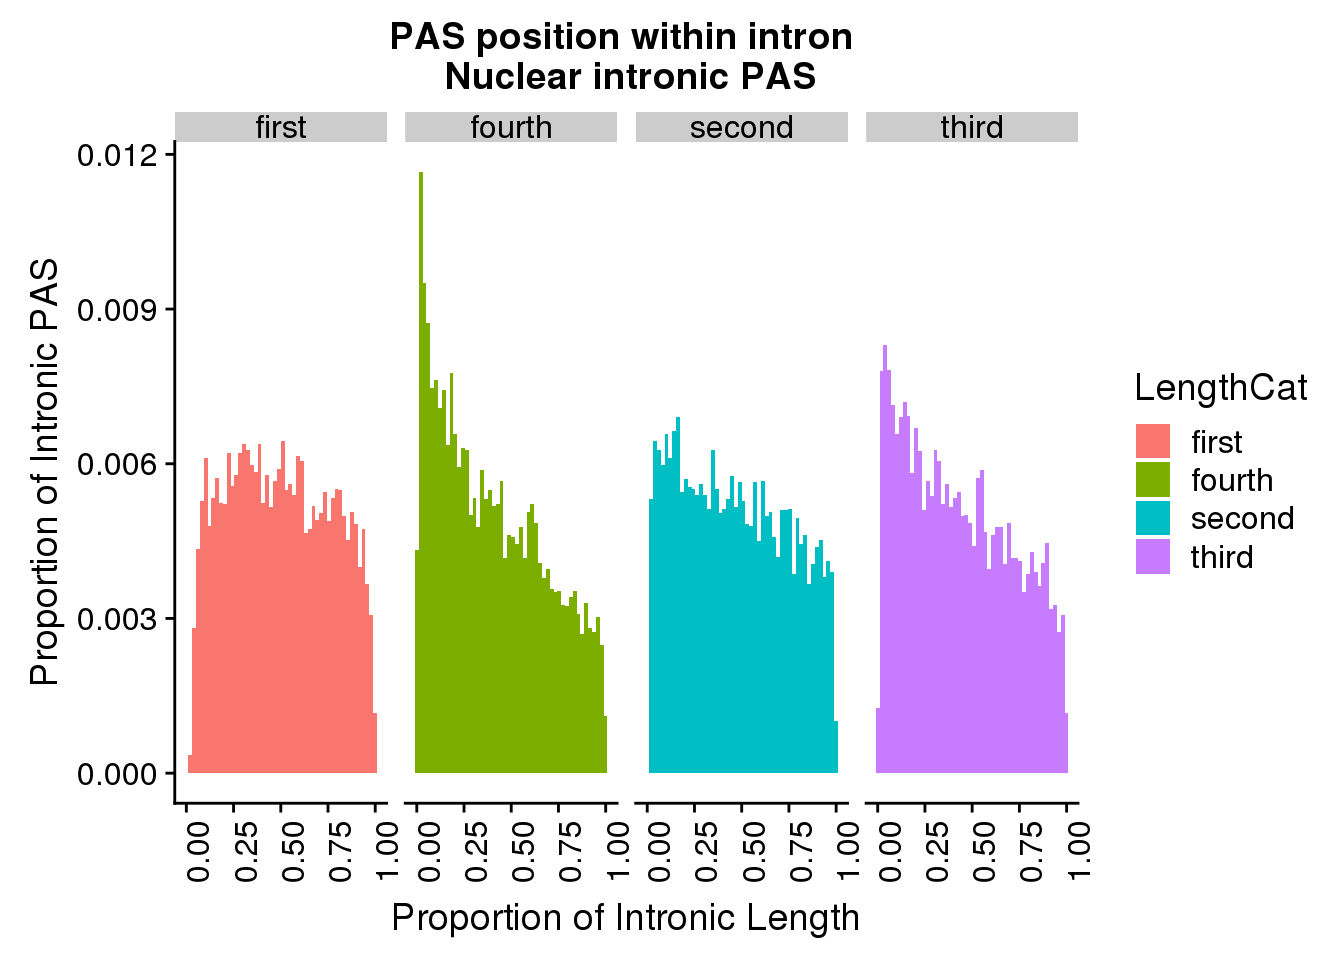
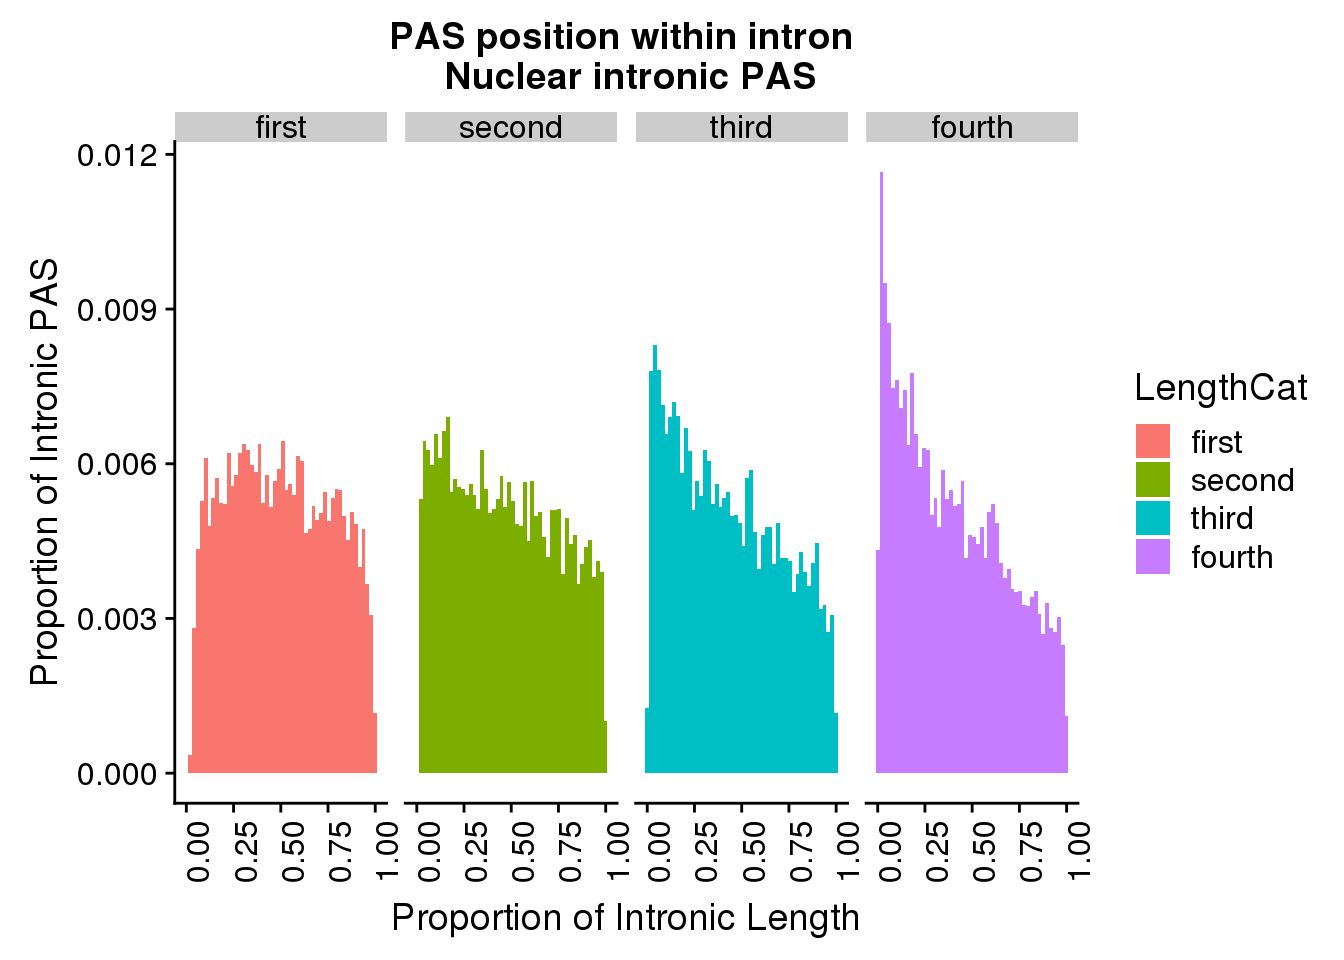
Build site.

diff --git a/docs/nucintronicanalysis.html b/docs/nucintronicanalysis.html
@@ -422,10 +422,10 @@ This reproducible <a href="http://rmarkdown.rstudio.com">R Markdown</a> analysis
 <div class="panel panel-default">
 <div class="panel-heading">
 <p class="panel-title">
-<a data-toggle="collapse" data-parent="#workflowr-checks" href="#strongRepositoryversionstrongahrefhttpsgithubcombrimittlemanapaQTLtreea259a17e4ca3bfe70a6fcf372a01bd63ad4ca1bdtargetblanka259a17a"> <span class="glyphicon glyphicon-ok text-success" aria-hidden="true"></span> <strong>Repository version:</strong> <a href="https://github.com/brimittleman/apaQTL/tree/a259a17e4ca3bfe70a6fcf372a01bd63ad4ca1bd" target="_blank">a259a17</a> </a>
+<a data-toggle="collapse" data-parent="#workflowr-checks" href="#strongRepositoryversionstrongahrefhttpsgithubcombrimittlemanapaQTLtree48cbbd4a248fe28c643b7ed27b6962161ce0170etargetblank48cbbd4a"> <span class="glyphicon glyphicon-ok text-success" aria-hidden="true"></span> <strong>Repository version:</strong> <a href="https://github.com/brimittleman/apaQTL/tree/48cbbd4a248fe28c643b7ed27b6962161ce0170e" target="_blank">48cbbd4</a> </a>
 </p>
 </div>
[2 lines of base64/hex data omitted]
 <div class="panel-body">
 <p>
 Great! You are using Git for version control. Tracking code development and connecting the code version to the results is critical for reproducibility. The version displayed above was the version of the Git repository at the time these results were generated. <br><br> Note that you need to be careful to ensure that all relevant files for the analysis have been committed to Git prior to generating the results (you can use <code>wflow_publish</code> or <code>wflow_git_commit</code>). workflowr only checks the R Markdown file, but you know if there are other scripts or data files that it depends on. Below is the status of the Git repository when the results were generated:
@@ -452,6 +452,7 @@ Untracked files:
     Untracked:  code/._LC_samplegroups.py
     Untracked:  code/._SnakefilePAS
     Untracked:  code/._SnakefilefiltPAS
+    Untracked:  code/._TESplots100bp.sh
     Untracked:  code/._aAPAqtl_nominal39ind.sh
     Untracked:  code/._apaQTLCorrectPvalMakeQQ.R
     Untracked:  code/._apaQTL_Nominal.sh
@@ -541,6 +542,9 @@ Untracked files:
     Untracked:  code/LC_samplegroups.py
     Untracked:  code/README.md
     Untracked:  code/Rplots.pdf
+    Untracked:  code/TESplots100bp.err
+    Untracked:  code/TESplots100bp.out
+    Untracked:  code/TESplots100bp.sh
     Untracked:  code/Upstream100Bases_general.py
     Untracked:  code/aAPAqtl_nominal39ind.sh
     Untracked:  code/apaQTLCorrectPvalMakeQQ_4pc.R
@@ -613,6 +617,7 @@ Untracked files:
     Untracked:  data/DTmatrix/
     Untracked:  data/DiffIso/
     Untracked:  data/EncodeRNA/
+    Untracked:  data/GeuvadisRNA/
     Untracked:  data/PAS/
     Untracked:  data/QTLGenotypes/
     Untracked:  data/QTLoverlap/
@@ -724,6 +729,23 @@ Message
 </tr>
 </thead>
 <tbody>
+<tr>
+<td>
+html
+</td>
+<td>
+<a href="https://rawcdn.githack.com/brimittleman/apaQTL/57d8a8c3302213fce92c63c5cb645ab7ede038d2/docs/nucintronicanalysis.html" target="_blank">57d8a8c</a>
+</td>
+<td>
+brimittleman
+</td>
+<td>
+2019-05-22
+</td>
+<td>
+Build site.
+</td>
+</tr>
 <tr>
 <td>
 Rmd
@@ -870,12 +892,12 @@ start ideas for inton analysis
 <p>I am interested in understanding where in the introns the nuclear peaks are. Are they closer to the three prime or five prime edge of the intron. This may help us understand if NMD is contributing to the loss of transcripts between the nuclear and total fraction.</p>
 <p>I need to create an annotation with introns that do not overlap. For this I will use line up all of the exons for a gene then take the open spaces as introns.</p>
 <pre class="r"><code>library(tidyverse)</code></pre>
-<pre><code>── Attaching packages ──────────────────────────────────────────────────────────────────── tidyverse 1.2.1 ──</code></pre>
+<pre><code>── Attaching packages ───────────────────────────────────────────────────────────── tidyverse 1.2.1 ──</code></pre>
 <pre><code>✔ ggplot2 3.1.1       ✔ purrr   0.3.2  
 ✔ tibble  2.1.1       ✔ dplyr   0.8.0.1
 ✔ tidyr   0.8.3       ✔ stringr 1.3.1  
 ✔ readr   1.3.1       ✔ forcats 0.3.0  </code></pre>
-<pre><code>── Conflicts ─────────────────────────────────────────────────────────────────────── tidyverse_conflicts() ──
+<pre><code>── Conflicts ──────────────────────────────────────────────────────────────── tidyverse_conflicts() ──
 ✖ dplyr::filter() masks stats::filter()
 ✖ dplyr::lag()    masks stats::lag()</code></pre>
 <pre class="r"><code>library(workflowr)</code></pre>
@@ -946,6 +968,17 @@ Date
 <tbody>
 <tr>
 <td>
+<a href="https://github.com/brimittleman/apaQTL/blob/57d8a8c3302213fce92c63c5cb645ab7ede038d2/docs/figure/nucintronicanalysis.Rmd/unnamed-chunk-12-1.png" target="_blank">57d8a8c</a>
+</td>
+<td>
+brimittleman
+</td>
+<td>
+2019-05-22
+</td>
+</tr>
+<tr>
+<td>
 <a href="https://github.com/brimittleman/apaQTL/blob/d859f02f7079e5fdac54304f492e7e658bf3f0b6/docs/figure/nucintronicanalysis.Rmd/unnamed-chunk-12-1.png" target="_blank">d859f02</a>
 </td>
 <td>
@@ -987,6 +1020,17 @@ Date
 <tbody>
 <tr>
 <td>
+<a href="https://github.com/brimittleman/apaQTL/blob/57d8a8c3302213fce92c63c5cb645ab7ede038d2/docs/figure/nucintronicanalysis.Rmd/unnamed-chunk-13-1.png" target="_blank">57d8a8c</a>
+</td>
+<td>
+brimittleman
+</td>
+<td>
+2019-05-22
+</td>
+</tr>
+<tr>
+<td>
 <a href="https://github.com/brimittleman/apaQTL/blob/d859f02f7079e5fdac54304f492e7e658bf3f0b6/docs/figure/nucintronicanalysis.Rmd/unnamed-chunk-13-1.png" target="_blank">d859f02</a>
 </td>
 <td>
@@ -1008,17 +1052,168 @@ pas2intron_length=pas2intron %&gt;% mutate(LengthCat=ifelse(intronLength&lt;=mea
 
 ggplot(pas2intron_length, aes(x=propIntron, fill=LengthCat)) + geom_histogram(bins=50, aes(y=..count../33345)) + labs(title=&quot;PAS position within intron&quot;, y=&quot;Proportion of Intronic PAS&quot;, x=&quot;Proportion of Intronic Length&quot;) + facet_grid(~LengthCat)</code></pre>
 <p><img src="figure/nucintronicanalysis.Rmd/unnamed-chunk-14-1.png" width="672" style="display: block; margin: auto;" /></p>
+<p>
+<button type="button" class="btn btn-default btn-xs btn-workflowr btn-workflowr-fig" data-toggle="collapse" data-target="#fig-unnamed-chunk-14-1">
+Past versions of unnamed-chunk-14-1.png
+</button>
+</p>
+<div id="fig-unnamed-chunk-14-1" class="collapse">
+<div class="table-responsive">
+<table class="table table-condensed table-hover">
+<thead>
+<tr>
+<th>
+Version
+</th>
+<th>
+Author
+</th>
+<th>
+Date
+</th>
+</tr>
+</thead>
+<tbody>
+<tr>
+<td>
+<a href="https://github.com/brimittleman/apaQTL/blob/57d8a8c3302213fce92c63c5cb645ab7ede038d2/docs/figure/nucintronicanalysis.Rmd/unnamed-chunk-14-1.png" target="_blank">57d8a8c</a>
+</td>
+<td>
+brimittleman
+</td>
+<td>
+2019-05-22
+</td>
+</tr>
+</tbody>
+</table>
+</div>
+</div>
 <pre class="r"><code>ggplot(pas2intron_length, aes(x=distance2PAS, fill=LengthCat)) + geom_histogram(bins=50, aes(y=..count../33345)) + labs(title=&quot;PAS position within intron&quot;, y=&quot;Proportion of Intronic PAS&quot;, x=&quot;Proportion of Intronic Length&quot;) + facet_grid(~LengthCat)</code></pre>
-<p><img src="figure/nucintronicanalysis.Rmd/unnamed-chunk-14-2.png" width="672" style="display: block; margin: auto;" /> Look at quartiles:</p>
+<p><img src="figure/nucintronicanalysis.Rmd/unnamed-chunk-14-2.png" width="672" style="display: block; margin: auto;" /></p>
+<p>
+<button type="button" class="btn btn-default btn-xs btn-workflowr btn-workflowr-fig" data-toggle="collapse" data-target="#fig-unnamed-chunk-14-2">
+Past versions of unnamed-chunk-14-2.png
+</button>
+</p>
+<div id="fig-unnamed-chunk-14-2" class="collapse">
+<div class="table-responsive">
+<table class="table table-condensed table-hover">
+<thead>
+<tr>
+<th>
+Version
+</th>
+<th>
+Author
+</th>
+<th>
+Date
+</th>
+</tr>
+</thead>
+<tbody>
+<tr>
+<td>
+<a href="https://github.com/brimittleman/apaQTL/blob/57d8a8c3302213fce92c63c5cb645ab7ede038d2/docs/figure/nucintronicanalysis.Rmd/unnamed-chunk-14-2.png" target="_blank">57d8a8c</a>
+</td>
+<td>
+brimittleman
+</td>
+<td>
+2019-05-22
+</td>
+</tr>
+</tbody>
+</table>
+</div>
+</div>
+<p>Look at quartiles:</p>
 <pre class="r"><code>summary(pas2intron_usage$intronLength)</code></pre>
 <pre><code>   Min. 1st Qu.  Median    Mean 3rd Qu.    Max. 
     106    3929    9220   22248   24094 1102540 </code></pre>
 <pre class="r"><code>pas2intron_length2=pas2intron %&gt;% mutate(LengthCat=ifelse(intronLength&lt;=3929, &quot;first&quot;, ifelse(intronLength&gt;3929 &amp;intronLength&lt;=9220, &quot;second&quot;, ifelse(intronLength&gt;9220 &amp;intronLength&lt;=24094, &quot;third&quot;, &quot;fourth&quot;))))
+
+pas2intron_length2$LengthCat &lt;- factor(pas2intron_length2$LengthCat, levels=c(&quot;first&quot;, &quot;second&quot;, &quot;third&quot;, &quot;fourth&quot;))
                                          
 ggplot(pas2intron_length2, aes(x=propIntron, fill=LengthCat)) + geom_histogram(bins=50, aes(y=..count../33345)) + labs(title=&quot;PAS position within intron \n Nuclear intronic PAS&quot;, y=&quot;Proportion of Intronic PAS&quot;, x=&quot;Proportion of Intronic Length&quot;) + facet_grid(~LengthCat)+theme(axis.text.x = element_text(angle = 90, hjust = 1))</code></pre>
 <p><img src="figure/nucintronicanalysis.Rmd/unnamed-chunk-15-1.png" width="672" style="display: block; margin: auto;" /></p>
+<p>
+<button type="button" class="btn btn-default btn-xs btn-workflowr btn-workflowr-fig" data-toggle="collapse" data-target="#fig-unnamed-chunk-15-1">
+Past versions of unnamed-chunk-15-1.png
+</button>
+</p>
+<div id="fig-unnamed-chunk-15-1" class="collapse">
+<div class="table-responsive">
+<table class="table table-condensed table-hover">
+<thead>
+<tr>
+<th>
+Version
+</th>
+<th>
+Author
+</th>
+<th>
+Date
+</th>
+</tr>
+</thead>
+<tbody>
+<tr>
+<td>
+<a href="https://github.com/brimittleman/apaQTL/blob/57d8a8c3302213fce92c63c5cb645ab7ede038d2/docs/figure/nucintronicanalysis.Rmd/unnamed-chunk-15-1.png" target="_blank">57d8a8c</a>
+</td>
+<td>
+brimittleman
+</td>
+<td>
+2019-05-22
+</td>
+</tr>
+</tbody>
+</table>
+</div>
+</div>
 <pre class="r"><code>ggplot(pas2intron_length2, aes(x=log(distance2PAS)), by=LengthCat, col=LengthCat) + stat_ecdf(aes(col=LengthCat)) </code></pre>
 <p><img src="figure/nucintronicanalysis.Rmd/unnamed-chunk-15-2.png" width="672" style="display: block; margin: auto;" /></p>
+<p>
+<button type="button" class="btn btn-default btn-xs btn-workflowr btn-workflowr-fig" data-toggle="collapse" data-target="#fig-unnamed-chunk-15-2">
+Past versions of unnamed-chunk-15-2.png
+</button>
+</p>
+<div id="fig-unnamed-chunk-15-2" class="collapse">
+<div class="table-responsive">
+<table class="table table-condensed table-hover">
+<thead>
+<tr>
+<th>
+Version
+</th>
+<th>
+Author
+</th>
+<th>
+Date
+</th>
+</tr>
+</thead>
+<tbody>
+<tr>
+<td>
+<a href="https://github.com/brimittleman/apaQTL/blob/57d8a8c3302213fce92c63c5cb645ab7ede038d2/docs/figure/nucintronicanalysis.Rmd/unnamed-chunk-15-2.png" target="_blank">57d8a8c</a>
+</td>
+<td>
+brimittleman
+</td>
+<td>
+2019-05-22
+</td>
+</tr>
+</tbody>
+</table>
+</div>
+</div>
 <p>Look at distribution in total fraction:</p>
 <pre class="r"><code>totIntronicPeaks=read.table(&quot;../data/peaks_5perc/APApeak_Peaks_GeneLocAnno.Total.5perc.fc&quot;, stringsAsFactors = F, header = F,col.names = c(&quot;chr&quot;, &quot;start&quot;, &quot;end&quot;, &quot;gene&quot;, &quot;loc&quot;, &quot;strand&quot;, &quot;peak&quot;, &quot;avgUsage&quot;)) %&gt;% filter(loc==&quot;intron&quot;)
 
@@ -1034,13 +1229,90 @@ nrow(pas2intronTot)</code></pre>
 <pre class="r"><code>totalplot=ggplot(pas2intronTot, aes(x=propIntron)) + geom_histogram(bins=50, aes(y=..count../31954)) + labs(title=&quot;PAS position within intron \nfor total PAS&quot;, y=&quot;Proportion of Intronic PAS&quot;, x=&quot;Proportion of Intronic Length&quot;)</code></pre>
 <pre class="r"><code>plot_grid(totalplot, nuclearplot)</code></pre>
 <p><img src="figure/nucintronicanalysis.Rmd/unnamed-chunk-20-1.png" width="672" style="display: block; margin: auto;" /></p>
+<p>
+<button type="button" class="btn btn-default btn-xs btn-workflowr btn-workflowr-fig" data-toggle="collapse" data-target="#fig-unnamed-chunk-20-1">
+Past versions of unnamed-chunk-20-1.png
+</button>
+</p>
+<div id="fig-unnamed-chunk-20-1" class="collapse">
+<div class="table-responsive">
+<table class="table table-condensed table-hover">
+<thead>
+<tr>
+<th>
+Version
+</th>
+<th>
+Author
+</th>
+<th>
+Date
+</th>
+</tr>
+</thead>
+<tbody>
+<tr>
+<td>
+<a href="https://github.com/brimittleman/apaQTL/blob/57d8a8c3302213fce92c63c5cb645ab7ede038d2/docs/figure/nucintronicanalysis.Rmd/unnamed-chunk-20-1.png" target="_blank">57d8a8c</a>
+</td>
+<td>
+brimittleman
+</td>
+<td>
+2019-05-22
+</td>
+</tr>
+</tbody>
+</table>
+</div>
+</div>
 <pre class="r"><code>summary(pas2intronTot$intronLength)</code></pre>
 <pre><code>   Min. 1st Qu.  Median    Mean 3rd Qu.    Max. 
     106    3785    8872   21032   22928 1102540 </code></pre>
 <pre class="r"><code>pas2intron_totlength2=pas2intronTot %&gt;% mutate(LengthCat=ifelse(intronLength&lt;=3785, &quot;first&quot;, ifelse(intronLength&gt;3785 &amp;intronLength&lt;=8872, &quot;second&quot;, ifelse(intronLength&gt;8872 &amp;intronLength&lt;=22928, &quot;third&quot;, &quot;fourth&quot;))))
+
+pas2intron_totlength2$LengthCat &lt;- factor(pas2intron_totlength2$LengthCat, levels=c(&quot;first&quot;, &quot;second&quot;, &quot;third&quot;, &quot;fourth&quot;))
+
                                          
 ggplot(pas2intron_totlength2, aes(x=propIntron, fill=LengthCat)) + geom_histogram(bins=50, aes(y=..count../31954)) + labs(title=&quot;PAS position within intron \n Total intronic PAS&quot;, y=&quot;Proportion of Intronic PAS&quot;, x=&quot;Proportion of Intronic Length&quot;) + facet_grid(~LengthCat) + theme(axis.text.x = element_text(angle = 90, hjust = 1))</code></pre>
 <p><img src="figure/nucintronicanalysis.Rmd/unnamed-chunk-21-1.png" width="672" style="display: block; margin: auto;" /></p>
+<p>
+<button type="button" class="btn btn-default btn-xs btn-workflowr btn-workflowr-fig" data-toggle="collapse" data-target="#fig-unnamed-chunk-21-1">
+Past versions of unnamed-chunk-21-1.png
+</button>
+</p>
+<div id="fig-unnamed-chunk-21-1" class="collapse">
+<div class="table-responsive">
+<table class="table table-condensed table-hover">
+<thead>
+<tr>
+<th>
+Version
+</th>
+<th>
+Author
+</th>
+<th>
+Date
+</th>
+</tr>
+</thead>
+<tbody>
+<tr>
+<td>
+<a href="https://github.com/brimittleman/apaQTL/blob/57d8a8c3302213fce92c63c5cb645ab7ede038d2/docs/figure/nucintronicanalysis.Rmd/unnamed-chunk-21-1.png" target="_blank">57d8a8c</a>
+</td>
+<td>
+brimittleman
+</td>
+<td>
+2019-05-22
+</td>
+</tr>
+</tbody>
+</table>
+</div>
+</div>
 <br>
 <p>
 <button type="button" class="btn btn-default btn-workflowr btn-workflowr-sessioninfo" data-toggle="collapse" data-target="#workflowr-sessioninfo" style="display: block;">
